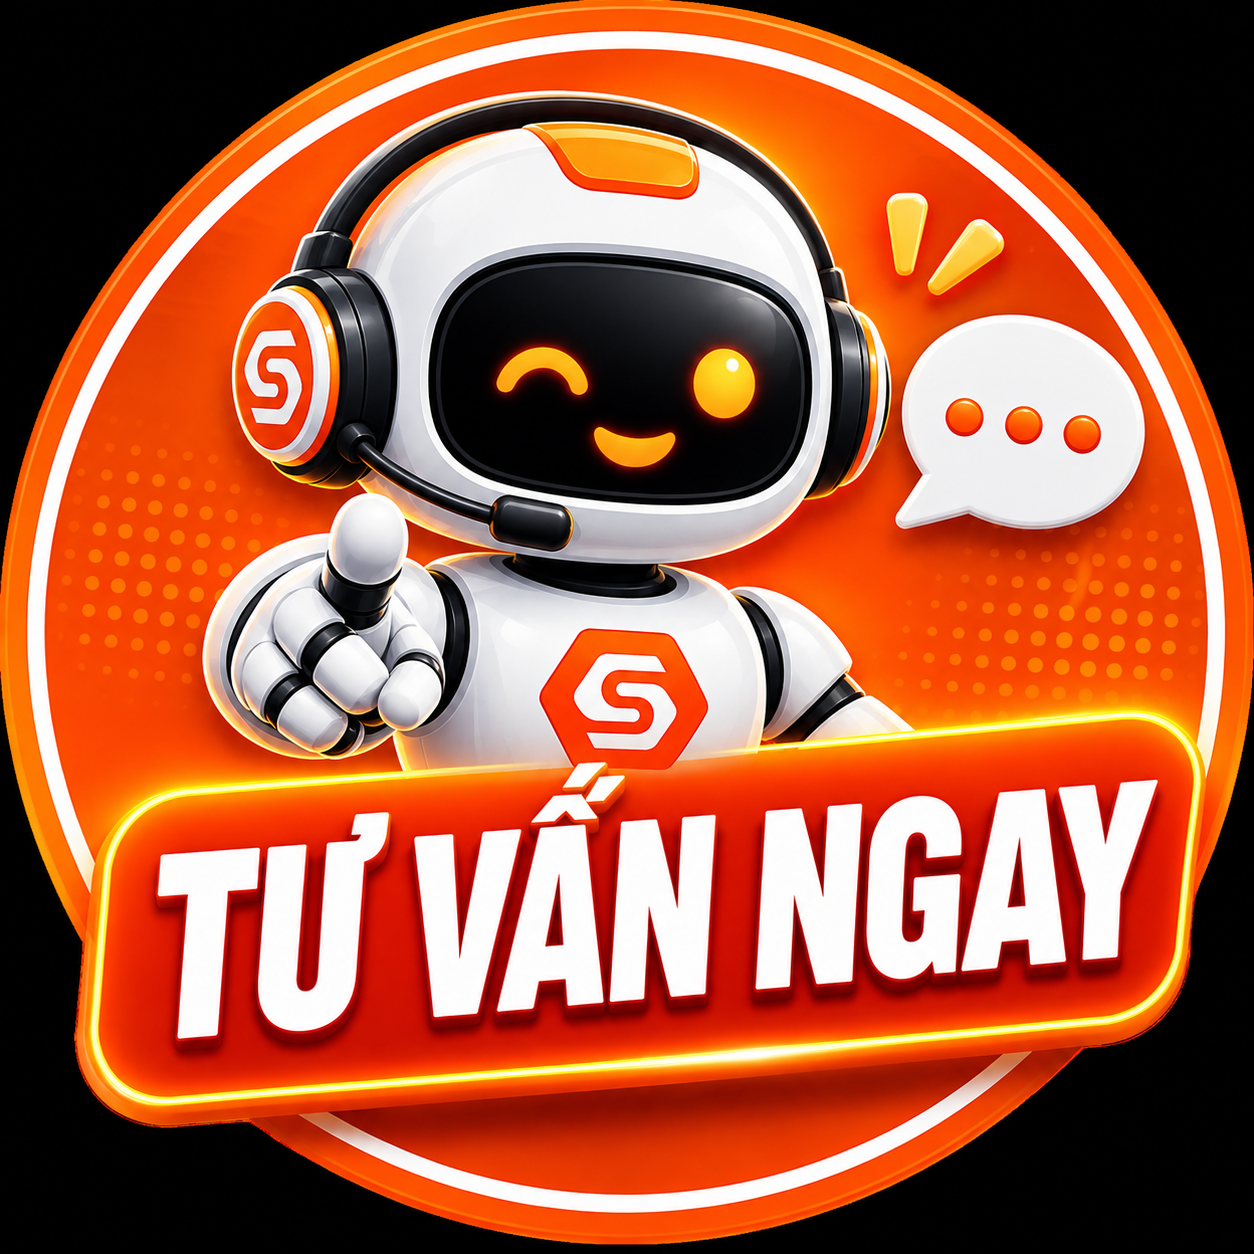
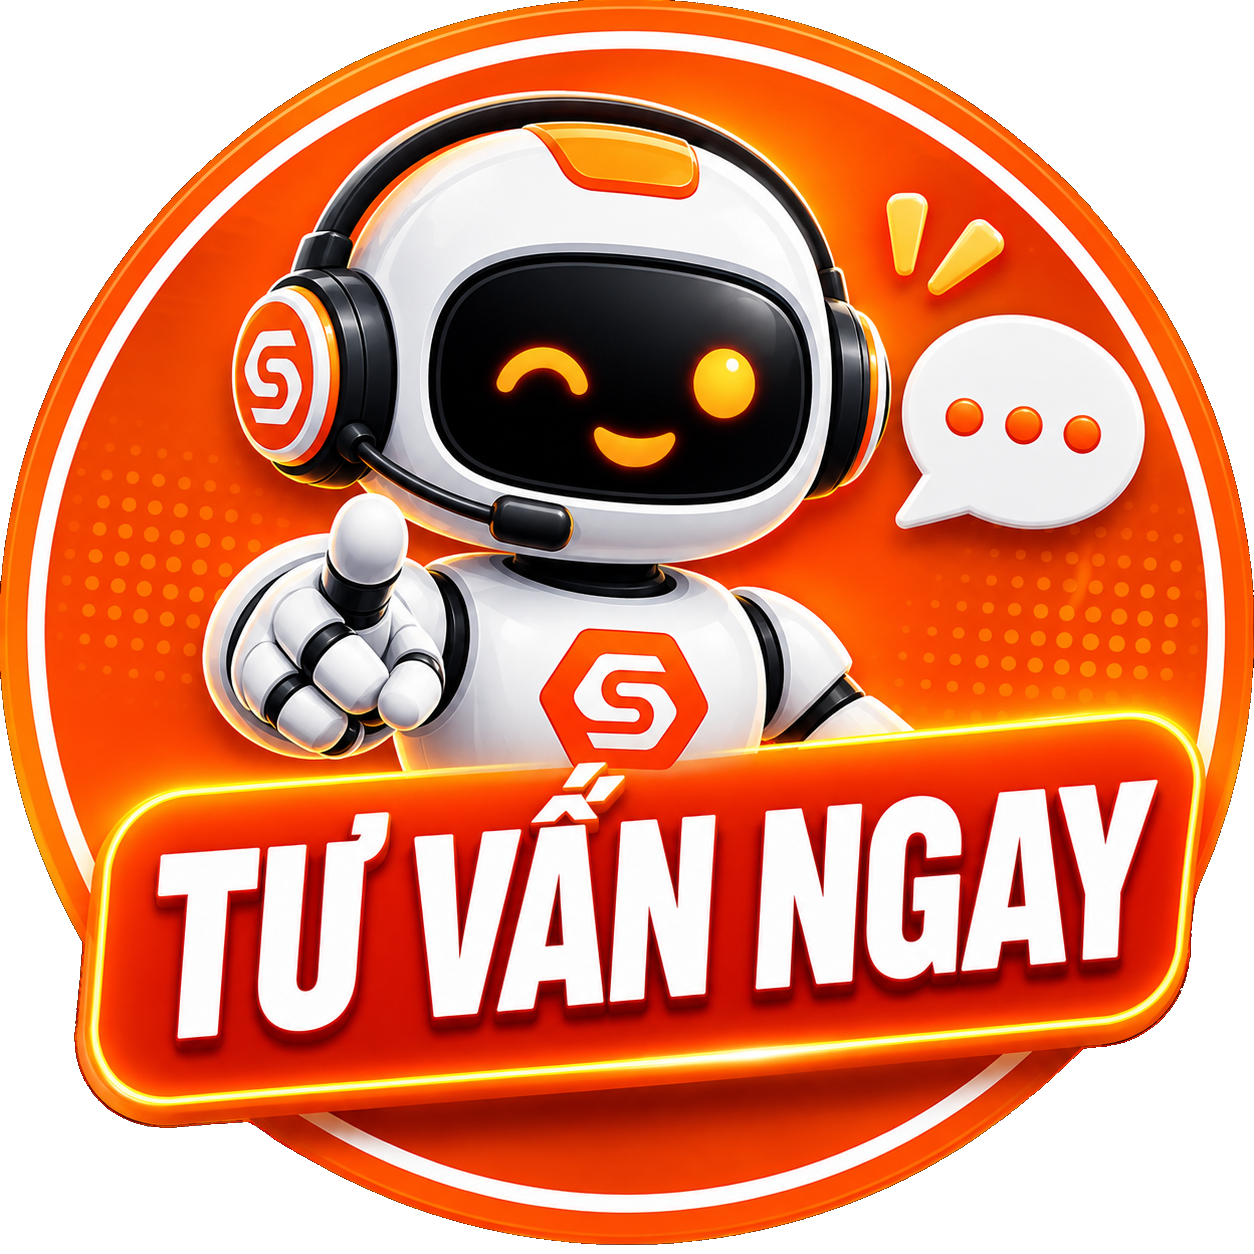
Add files via upload

Changed region(s): [[0.0, 0.5287, 1.0, 1.0], [0.5598, 0.0, 1.0, 0.4665], [0.0, 0.0, 0.4354, 0.4354]]

diff --git a/styles.css b/styles.css
@@ -14715,3 +14715,22 @@ body.ai-chat-open #zaloConsultBtn.ai-chat-pill{display:none!important}
     box-shadow:0 1px 4px rgba(15,23,42,.18)!important;
   }
 }
+
+/* =========================================================
+   V428 - Fix nen den/nền vuông của icon AI trên mobile
+   Asset ai-chat-robot.png đã được chuyển sang PNG RGBA trong suốt thật.
+   ========================================================= */
+@media (max-width:720px){
+  #zaloConsultBtn.ai-chat-pill,
+  #zaloConsultBtn.ai-round-float.ai-chat-pill,
+  #zaloConsultBtn.ai-chat-pill .ai-round-logo,
+  #zaloConsultBtn.ai-chat-pill .ai-round-logo img{
+    background:transparent!important;
+    background-color:transparent!important;
+  }
+  #zaloConsultBtn.ai-chat-pill .ai-round-logo img{
+    object-fit:contain!important;
+    mix-blend-mode:normal!important;
+    opacity:1!important;
+  }
+}

diff --git a/index.html b/index.html
@@ -490,7 +490,7 @@
 
 <button id="zaloConsultBtn" class="zalo-float ai-first-help ai-round-float ai-chat-launcher ai-chat-pill" type="button" aria-label="Mở tư vấn AI Siêu Di Động" title="Chạm để mở tư vấn AI">
       <span class="ai-round-logo" aria-hidden="true">
-        <img src="/assets/ai-chat-robot.png?v=179" alt="AI tư vấn Siêu Di Động">
+        <img src="/assets/ai-chat-robot.png?v=180" alt="AI tư vấn Siêu Di Động">
         <span class="ai-online-dot" aria-hidden="true"></span>
       </span>
       <span class="ai-pill-copy" aria-hidden="true">
@@ -501,7 +501,7 @@
       <span class="ai-chat-notify-dot" aria-hidden="true"></span>
     </button>
 
-  <script src="/app.js?v=424"></script>
+  <script src="/app.js?v=428"></script>
 
 <script>
 /* V175: tự đổi phía chữ "Tư vấn ngay" theo vị trí nút chat */
